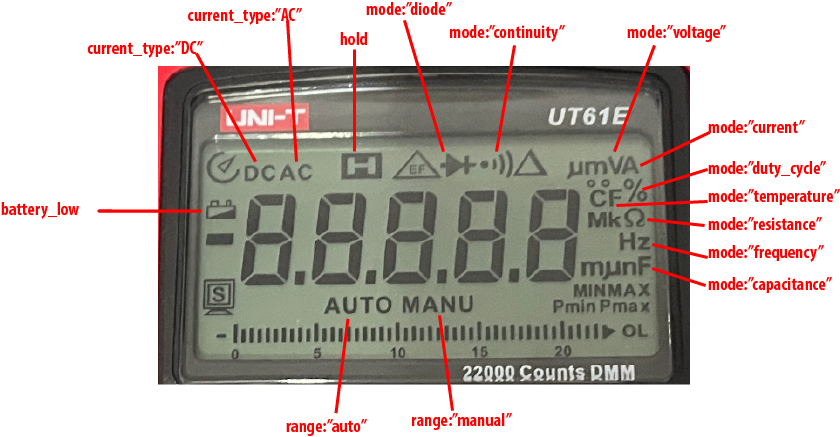
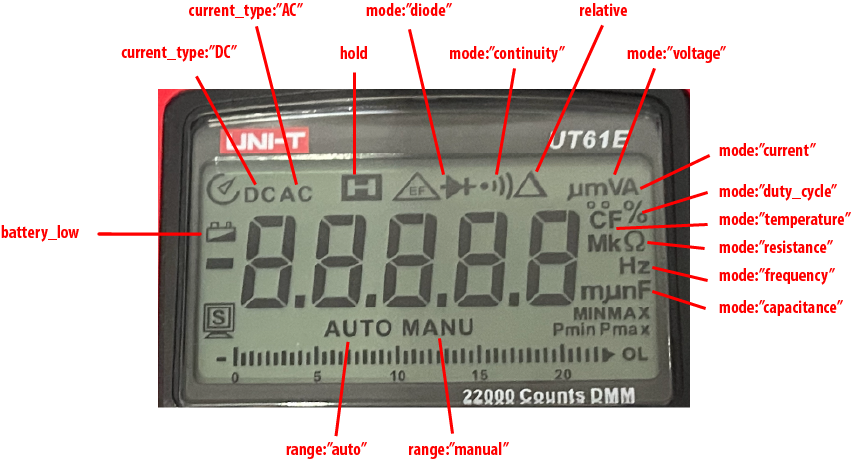
Fixed HOLD mode not displaying what's on screen. Tidied up screen schematic image Tweaked README.md

diff --git a/Firmware/UT61EWiFiD1Mini/ut61e_display.cpp b/Firmware/UT61EWiFiD1Mini/ut61e_display.cpp
@@ -324,79 +324,79 @@ bool UT61E_DISP::_parse()
     // # function byte is still the same as before so we have to correct for that:
     if (options["VAHZ"])
         dial_function = DIAL_FUNCTION[0b0110010];
-    mode = dial_function.function;
+    display.mode = dial_function.function;
     Range_Dict m_range = dial_function.subfunction[packet.pb.d_range];
-    unit = dial_function.unit;
-    if (mode == "frequency" and options["JUDGE"])
+    display.unit = dial_function.unit;
+    if (display.mode == "frequency" and options["JUDGE"])
     {
-        mode = "duty_cycle";
-        unit = "%";
+        display.mode = "duty_cycle";
+        display.unit = "%";
         m_range = {1e0, 1, "%"}; // 2200.0°C
     };
     if (options["AC"] and options["DC"])
         std::exception(); // ValueError
     else if (options["DC"])
-        currentType = "DC";
+        display.currentType = "DC";
     else if (options["AC"])
-        currentType = "AC";
+        display.currentType = "AC";
 
-    operation = "normal";
+    display.operation = "normal";
     // sometimes there a glitch where both UL and OL are enabled in normal operation
     // so no error is raised when it occurs
     if (options["UL"])
-        operation = "underload";
+        display.operation = "underload";
     else if (options["OL"])
-        operation = "overload";
+        display.operation = "overload";
 
     if (options["AUTO"])
-        mrange = "auto";
+        display.mrange = "auto";
     else
-        mrange = "manual";
+        display.mrange = "manual";
 
     if (options["BATT"])
-        battery_low = true;
+        display.battery_low = true;
     else
-        battery_low = false;
+        display.battery_low = false;
 
     // Relative measurement mode, received value is actual!
     if (options["REL"])
-        relative = true;
+        display.relative = true;
     else
-        relative = false;
+        display.relative = false;
 
     // Data hold mode, received value is actual!
     if (options["HOLD"])
-        hold = true;
+        display.hold = true;
     else
-        hold = false;
+        display.hold = false;
 
     if (options["PMAX"])
     {
-        peak = "Pmax";
+        display.peak = "Pmax";
         if (serial)
             serial->printf("{PMAX : %d}", options["PMAX"]);
     }
     else if (options["PMIN"])
     {
-        peak = "Pmin";
+        display.peak = "Pmin";
         if (serial)
             serial->printf("{PMIN : %d}", options["PMIN"]);
     }
     else
-        peak = "";
+        display.peak = "";
 
-    if (mode == "current" and options["VBAR"])
+    if (display.mode == "current" and options["VBAR"])
         // """Auto μA Current
         // Auto mA Current"""
         ;
-    else if (mode == "current" and not options["VBAR"])
+    else if (display.mode == "current" and not options["VBAR"])
         // """Auto 220.00A/2200.0A
         // Auto 22.000A/220.00A"""
         ;
 
-    if (mode == "temperature" and options["VBAR"])
+    if (display.mode == "temperature" and options["VBAR"])
         m_range = {1e0, 1, "deg"}; // 2200.0°C
-    else if (mode == "temperature" and not options["VBAR"])
+    else if (display.mode == "temperature" and not options["VBAR"])
         m_range = {1e0, 2, "deg"}; // 220.00°C and °F
 
     int d4, d3, d2, d1, d0;
@@ -409,18 +409,18 @@ bool UT61E_DISP::_parse()
     vector<int> digit_array = {d0, d1, d2, d3, d4};
 
     // Do some hokery pokery and move the dp into position
-    sprintf(display_digits, ".%1d%1d%1d%1d%1d", d4, d3, d2, d1, d0);
+    sprintf(display.display_digits, ".%1d%1d%1d%1d%1d", d4, d3, d2, d1, d0);
     for (int i = 0; i < (5 - m_range.dp_digit_position); i++)
     {
-        display_digits[i] = display_digits[i + 1];
-        display_digits[i + 1] = '.';
+        display.display_digits[i] = display.display_digits[i + 1];
+        display.display_digits[i + 1] = '.';
     }
 
     // Strip leading zeroes from the string
     for (int i = 0; i < 6; i++)
     {
-        if(display_digits[i] == '0' && display_digits[i + 1] != '.')
-            display_digits[i] = ' ';
+        if(display.display_digits[i] == '0' && display.display_digits[i + 1] != '.')
+            display.display_digits[i] = ' ';
         else
             break;
     }
@@ -428,45 +428,45 @@ bool UT61E_DISP::_parse()
     if (serial)
     {
         serial->printf("{dp_position : %d}", m_range.dp_digit_position);
-        serial->printf("{display_digits : %s}", display_digits);
+        serial->printf("{display_digits : %s}", display.display_digits);
     }
-    display_value = 0;
+    display.display_value = 0;
     for (int i = 0; i < 5; i++)
-        display_value += digit_array[i] * pow(10, i);
+        display.display_value += digit_array[i] * pow(10, i);
 
     // Set the decimal place in the display value
-    display_value = display_value / pow(10, m_range.dp_digit_position);
+    display.display_value = display.display_value / pow(10, m_range.dp_digit_position);
 
-    string _display_string = display_digits;
-    strcpy(display_string,_display_string.substr(_display_string.find_first_not_of(' ')).c_str());
+    string _display_string = display.display_digits;
+    strcpy(display.display_string,_display_string.substr(_display_string.find_first_not_of(' ')).c_str());
 
     if (options["SIGN"])
     {
-        display_value = -display_value;
-        sign = true;
+        display.display_value = -display.display_value;
+        display.sign = true;
     }
     else
-        sign = false;
+        display.sign = false;
 
-    display_unit = m_range.display_unit;
-    value = float(display_value) * m_range.value_multiplier;
+    display.display_unit = m_range.display_unit;
+    display.value = float(display.display_value) * m_range.value_multiplier;
 
-    if (operation != "normal")
+    if (display.operation != "normal")
     {
-        display_value = 0;
-        value = 0;
-        if(operation == "overload")
+        display.display_value = 0;
+        display.value = 0;
+        if(display.operation == "overload")
         {
-            sprintf(display_digits," OL.  ");
-            strcpy(display_string,"OL.");
+            sprintf(display.display_digits," OL.  ");
+            strcpy(display.display_string,"OL.");
         }
-        if (operation == "underload")
+        if (display.operation == "underload")
         {
-            sprintf(display_digits, " UL.  ");
-            strcpy(display_string,"UL.");
+            sprintf(display.display_digits, " UL.  ");
+            strcpy(display.display_string,"UL.");
         }
         if (serial)
-            serial->println(operation.c_str());
+            serial->println(display.operation.c_str());
     }
     return true;
 };
@@ -475,17 +475,17 @@ bool UT61E_DISP::_parse()
 const string UT61E_DISP::get(){
     stringstream results;
     results << 
-        "value:" << value <<
-        ",unit:" << unit << 
-        ",display_value:" << display_value <<
-        ",display_unit:" << display_unit <<
-        ",mode:" << mode <<
-        ",currentType:" << currentType <<
-        ",peak:" << peak <<
-        ",relative:" << relative <<
-        ",hold:" << hold <<
-        ",range:" << mrange <<
-        ",operation:" << operation <<
-        ",battery_low:" << battery_low;
+        "value:" << display.value <<
+        ",unit:" << display.unit << 
+        ",display_value:" << display.display_value <<
+        ",display_unit:" << display.display_unit <<
+        ",mode:" << display.mode <<
+        ",currentType:" << display.currentType <<
+        ",peak:" << display.peak <<
+        ",relative:" << display.relative <<
+        ",hold:" << display.hold <<
+        ",range:" << display.mrange <<
+        ",operation:" << display.operation <<
+        ",battery_low:" << display.battery_low;
     return results.str();
 }

diff --git a/Firmware/UT61EWiFiD1Mini/ut61e_display.h b/Firmware/UT61EWiFiD1Mini/ut61e_display.h
@@ -63,6 +63,24 @@ union packet_u_t
 		packet_bytes_t pb;
 };
 
+struct display_t {
+	float value; //float
+	string unit; //string
+	float display_value; //float
+	string display_unit; // string
+	char display_digits[10]; // char *
+	char display_string[16]; // char *
+	string mode; // string
+	string currentType; //string
+	string peak; //string
+	bool relative; //bool
+	bool hold; //bool
+	string mrange; //string
+	string operation; //string
+	bool battery_low; //bool
+	bool sign; //Negative sign
+};
+
 class UT61E_DISP {
 	private:
 		packet_u_t packet;
@@ -104,21 +122,22 @@ class UT61E_DISP {
 			static  status_map_t OPTION3;
 			static  status_map_t OPTION4; 
 
-			float value; //float
-			string unit; //string
-			float display_value; //float
-			string display_unit; // string
-			char display_digits[10]; // char *
-			char display_string[16]; // char *
-			string mode; // string
-			string currentType; //string
-			string peak; //string
-			bool relative; //bool
-			bool hold; //bool
-			string mrange; //string
-			string operation; //string
-			bool battery_low; //bool
-			bool sign; //Negative sign
+			display_t display;
+			// float value; //float
+			// string unit; //string
+			// float display_value; //float
+			// string display_unit; // string
+			// char display_digits[10]; // char *
+			// char display_string[16]; // char *
+			// string mode; // string
+			// string currentType; //string
+			// string peak; //string
+			// bool relative; //bool
+			// bool hold; //bool
+			// string mrange; //string
+			// string operation; //string
+			// bool battery_low; //bool
+			// bool sign; //Negative sign
 
 			UT61E_DISP();
 			UT61E_DISP(HardwareSerial &s);

diff --git a/Firmware/UT61EWiFiD1Mini/README.md b/Firmware/UT61EWiFiD1Mini/README.md
@@ -30,7 +30,9 @@ There are three representations of value: `value`, `display_value`, `display_str
 ### display_unit: string
  One of V,A,Ω,Hz,F,deg,% with multiplier prefix as a string such as M,k,m,u,n e.g "nF", "kHz", "MΩ"
 ### mode: string
- Function selector mode. One of "voltage", "current", "resistance", "continuity", "diode", "frequency", "capacitance", "duty_cycle" or "temperature". These represent the major measurement modes. The diagram illustrates which annunciators are illuminated for which mode.
+ Function selector mode. One of "voltage", "current", "resistance", "continuity", "diode", "frequency", "capacitance", "duty_cycle" or "temperature". These represent the major measurement modes. 
+ 
+ The diagram illustrates which annunciators are illuminated for which mode.
 
  ![Figure 1](ut61e_fields.png)
 ### currentType: string
@@ -38,7 +40,7 @@ There are three representations of value: `value`, `display_value`, `display_str
 ### peak: string
  Peak measurement mode one of "", "Pmin" or "Pmax". Data alternates between Pmax and Pmin but the DMM displays only one, alternating when multiple presses of the "PEAK" button are made.
 ### relative: boolean
- In relative mode `true` or `false`. True when `REL△` button is pushed but data contains current actual measurement, not the relative value.
+ In relative mode `true` or `false`. True when `REL△` button is pushed but data contains current actual measurement, not the relative value. This may be the subject of further development - to acurately present the relative value as the display is showing.
 ### hold: boolean
  In hold mode `true` or `false`. When hold mode is on, the data continues to reflect what is being measured, not the `held` value.
 ### range: string
